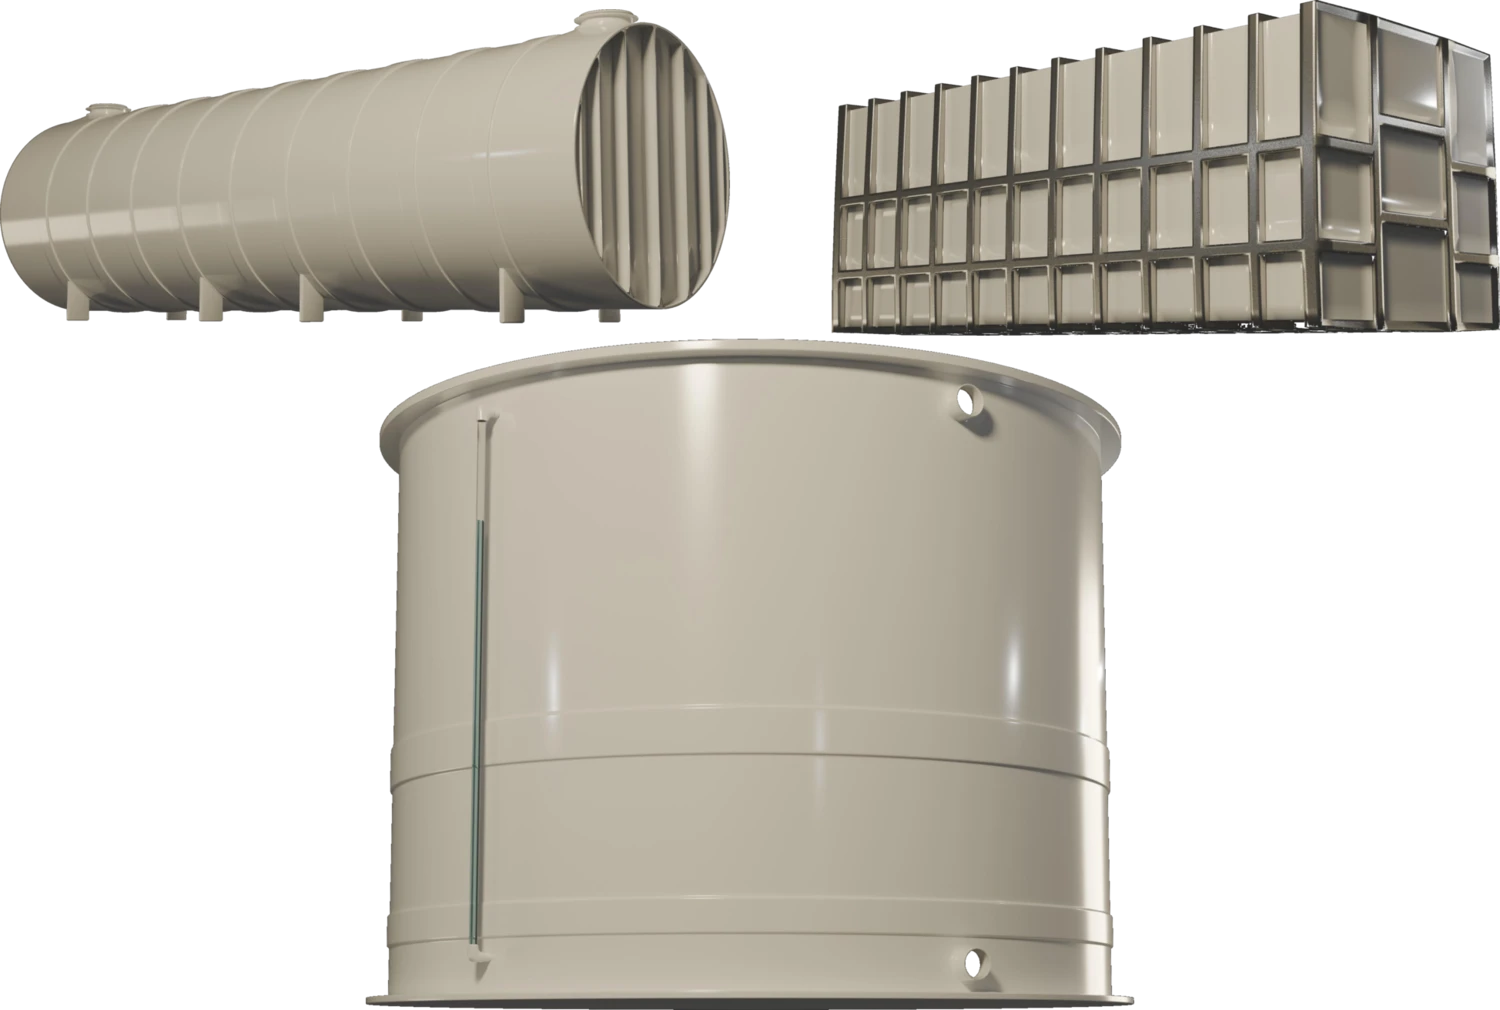
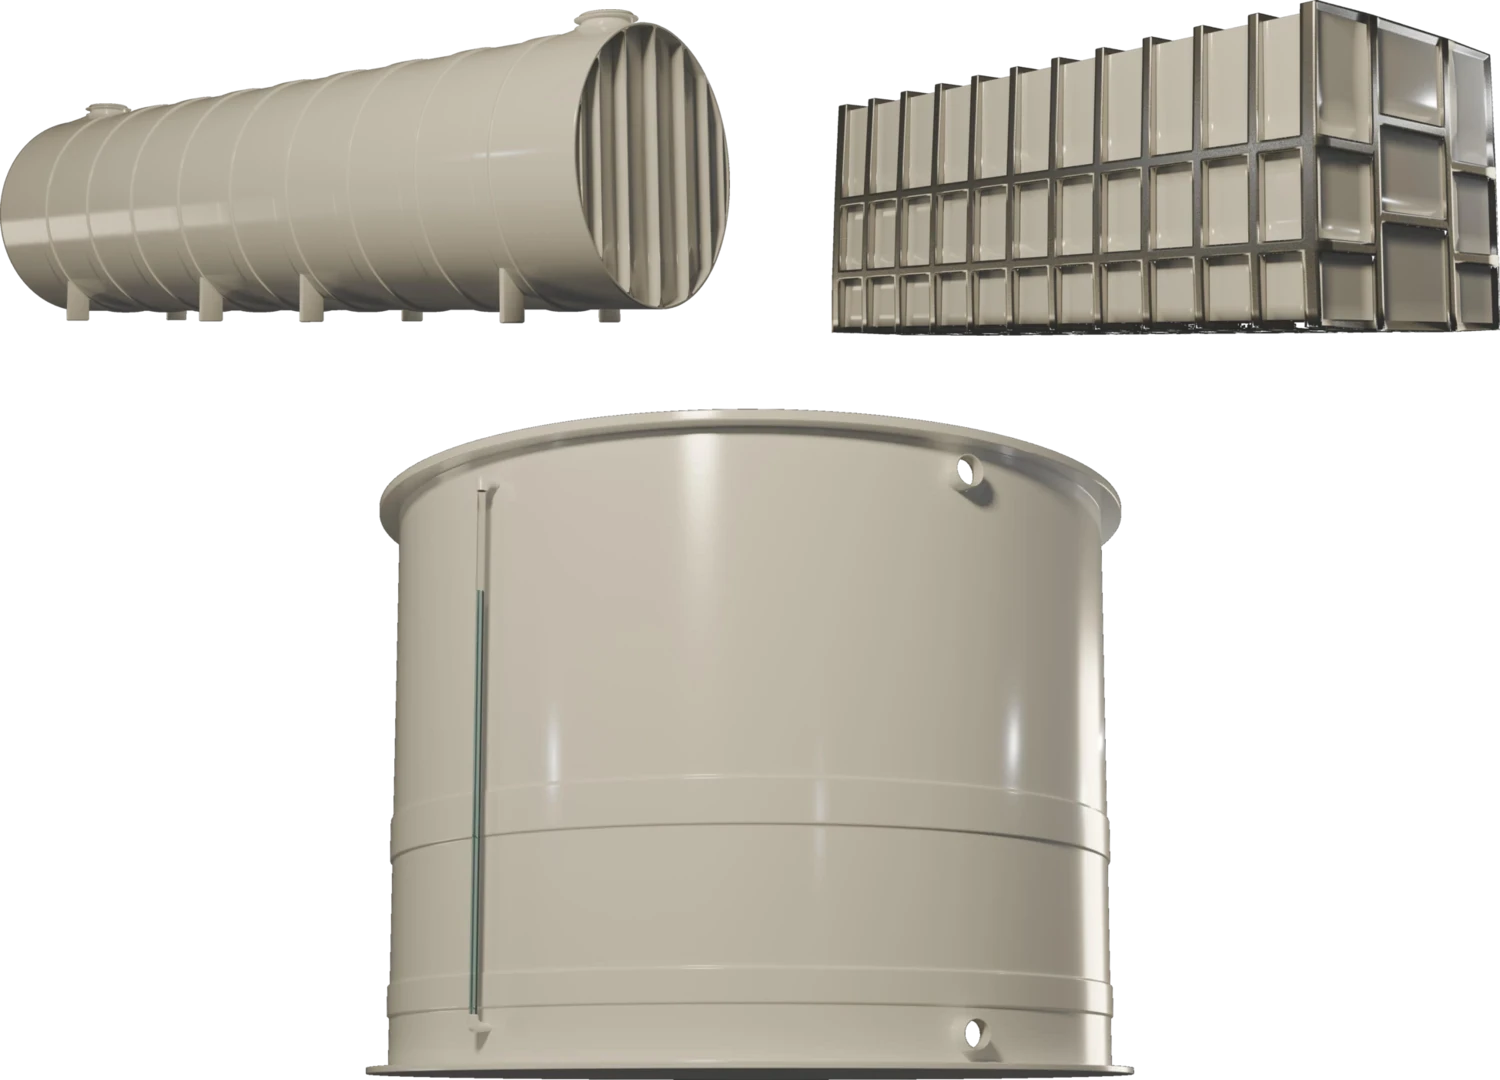
hero: increase vertical gap between top tanks and bottom tank

diff --git a/index.html b/index.html
@@ -83,7 +83,7 @@
           </ul>
         </div>
         <div class="hero__visual reveal reveal--delay">
-          <img class="hero__tanks" src="assets/hero-tanks.webp?v=2" width="1500" height="1010" alt="Резервуары из полипропилена и полиэтилена собственного производства — вертикальные, горизонтальные и прямоугольные" decoding="async">
+          <img class="hero__tanks" src="assets/hero-tanks.webp?v=3" width="1500" height="1080" alt="Резервуары из полипропилена и полиэтилена собственного производства — вертикальные, горизонтальные и прямоугольные" decoding="async">
         </div>
       </div>
     </section>
